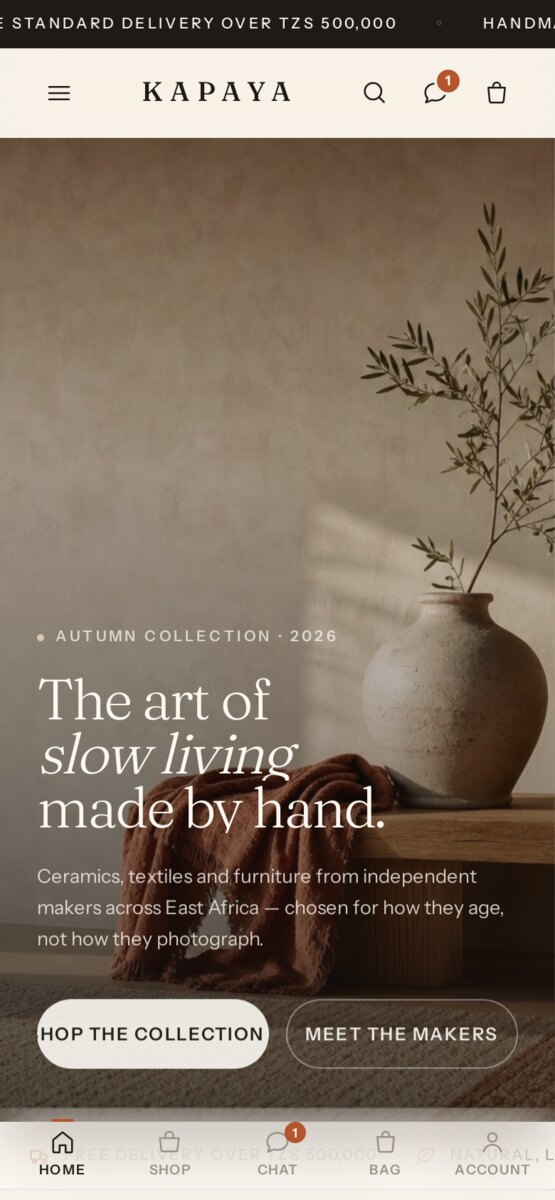
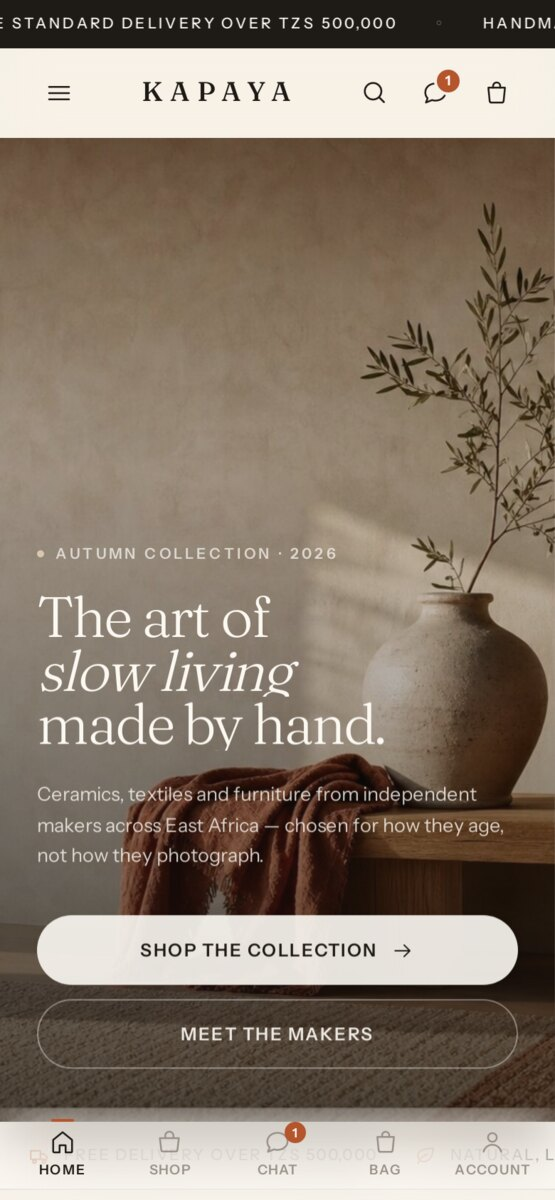
Cleaner product card pricing and mobile hero CTAs

diff --git a/src/components/ui.jsx b/src/components/ui.jsx
@@ -56,7 +56,11 @@ export function ProductCard({ product, index = 0, compact = false }) {
       style={{ '--d': `${(index % 4) * 45}ms` }}
     >
       <div className="pcard__media">
-        {product.badge && <span className="pcard__badge">{product.badge}</span>}
+        {product.badge ? (
+          <span className="pcard__badge">{product.badge}</span>
+        ) : product.compareAt ? (
+          <span className="pcard__badge">Sale</span>
+        ) : null}
         <button
           className={`pcard__save ${saved ? 'is-on' : ''}`}
           onClick={toggleSave}
@@ -84,7 +88,7 @@ export function ProductCard({ product, index = 0, compact = false }) {
       <div className="pcard__body">
         <div className="pcard__row">
           <h3 className="pcard__name">{product.name}</h3>
-          <Price className="pcard__price" value={product.price} compare={product.compareAt} />
+          <Price className="pcard__price" value={product.price} />
         </div>
         <div className="pcard__meta">
           <span>{product.studio}</span>

diff --git a/src/styles/home.css b/src/styles/home.css
@@ -206,9 +206,12 @@
   .hero__content {
     padding-bottom: 38px;
   }
+  .hero__actions {
+    gap: 9px;
+  }
   .hero__actions .btn {
-    flex: 1;
-    min-width: 140px;
+    flex: 1 1 100%;
+    width: 100%;
   }
 }
 
